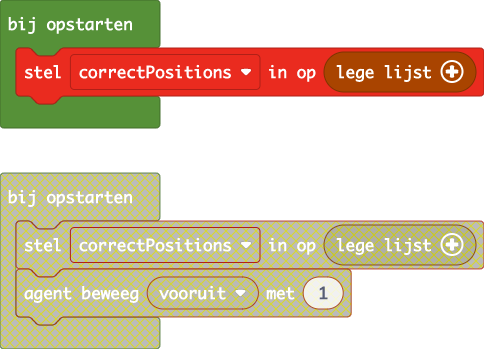
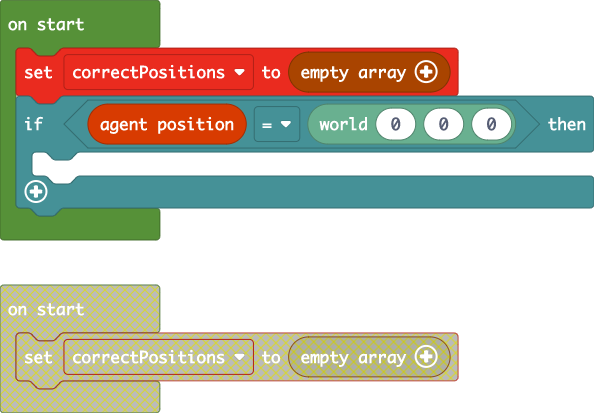
Update main.blocks, main.ts, custom_functions.ts

diff --git a/custom_functions.ts b/custom_functions.ts
@@ -25,9 +25,10 @@ namespace CodeCosmos {
     export function checkLevel() {
         const detectPostion = world(agent.getPosition().getValue(Axis.X), agent.getPosition().getValue(Axis.Y) - 1, agent.getPosition().getValue(Axis.Z))
         const detectPostion2 = world(agent.getPosition().getValue(Axis.X), agent.getPosition().getValue(Axis.Y) - 2, agent.getPosition().getValue(Axis.Z))
-        const endPositionFinalLevel = world(68,77,-9)
+        const endPositionLevel1 = world(78, 70, 1)
+        const endPositionFinalLevel = world(68, 77, -9)
 
-        if (blocks.testForBlock(Block.RedstoneLamp, detectPostion) || blocks.testForBlock(Block.RedstoneBlock, detectPostion) || blocks.testForBlock(Block.GreenWool, detectPostion2) || agent.getPosition() === endPositionFinalLevel) {
+        if (blocks.testForBlock(Block.RedstoneBlock, detectPostion) || blocks.testForBlock(Block.GreenWool, detectPostion2) || agent.getPosition() == endPositionLevel1 || agent.getPosition() == endPositionFinalLevel) {
             player.execute(`scoreboard players set @a level_check ${correctPositions.length}`)
         }
     }

diff --git a/main.ts b/main.ts
@@ -1,1 +1,2 @@
 let correctPositions: String[] = []
+
